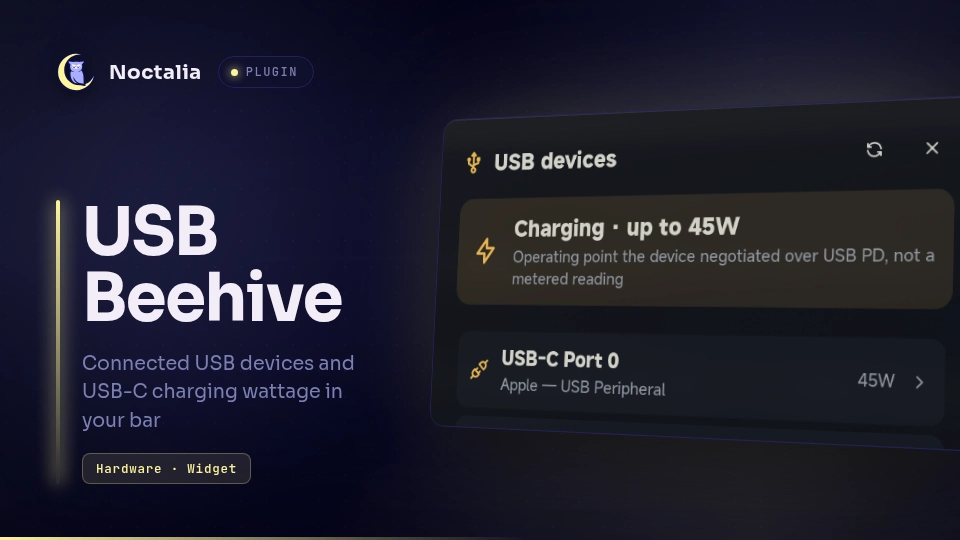
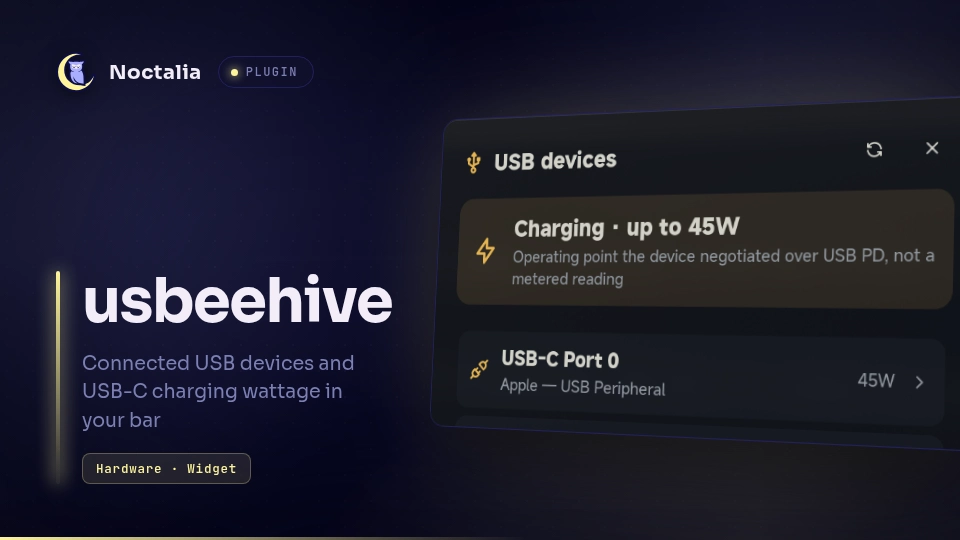
Use the tool's own name "usbeehive" as the display name

Changed region(s): [[0.0312, 0.3556, 0.25, 0.7111], [0.0938, 0.5037, 0.4062, 0.6222]]

diff --git a/README.md b/README.md
@@ -1,4 +1,4 @@
-# USB Beehive
+# usbeehive
 
 Shows your connected USB devices and USB-C charging wattage in the bar, using
 [usbeehive](https://github.com/abrauchli/usbeehive). It also tells you when a cable or charger is
@@ -27,7 +27,7 @@ the bottleneck.
 
 ## Usage
 
-Enable the plugin, then add the **USB Beehive** bar widget from the Add-widget picker, or configure
+Enable the plugin, then add the **usbeehive** bar widget from the Add-widget picker, or configure
 it by hand:
 
 ```toml
@@ -59,7 +59,7 @@ device is connected or disconnected, and when a new charging bottleneck appears.
 
 ## Settings
 
-Plugin settings live under **Settings → Plugins → USB Beehive** (the gear).
+Plugin settings live under **Settings → Plugins → usbeehive** (the gear).
 
 | Setting | Type | Default | Description |
 | --- | --- | --- | --- |
